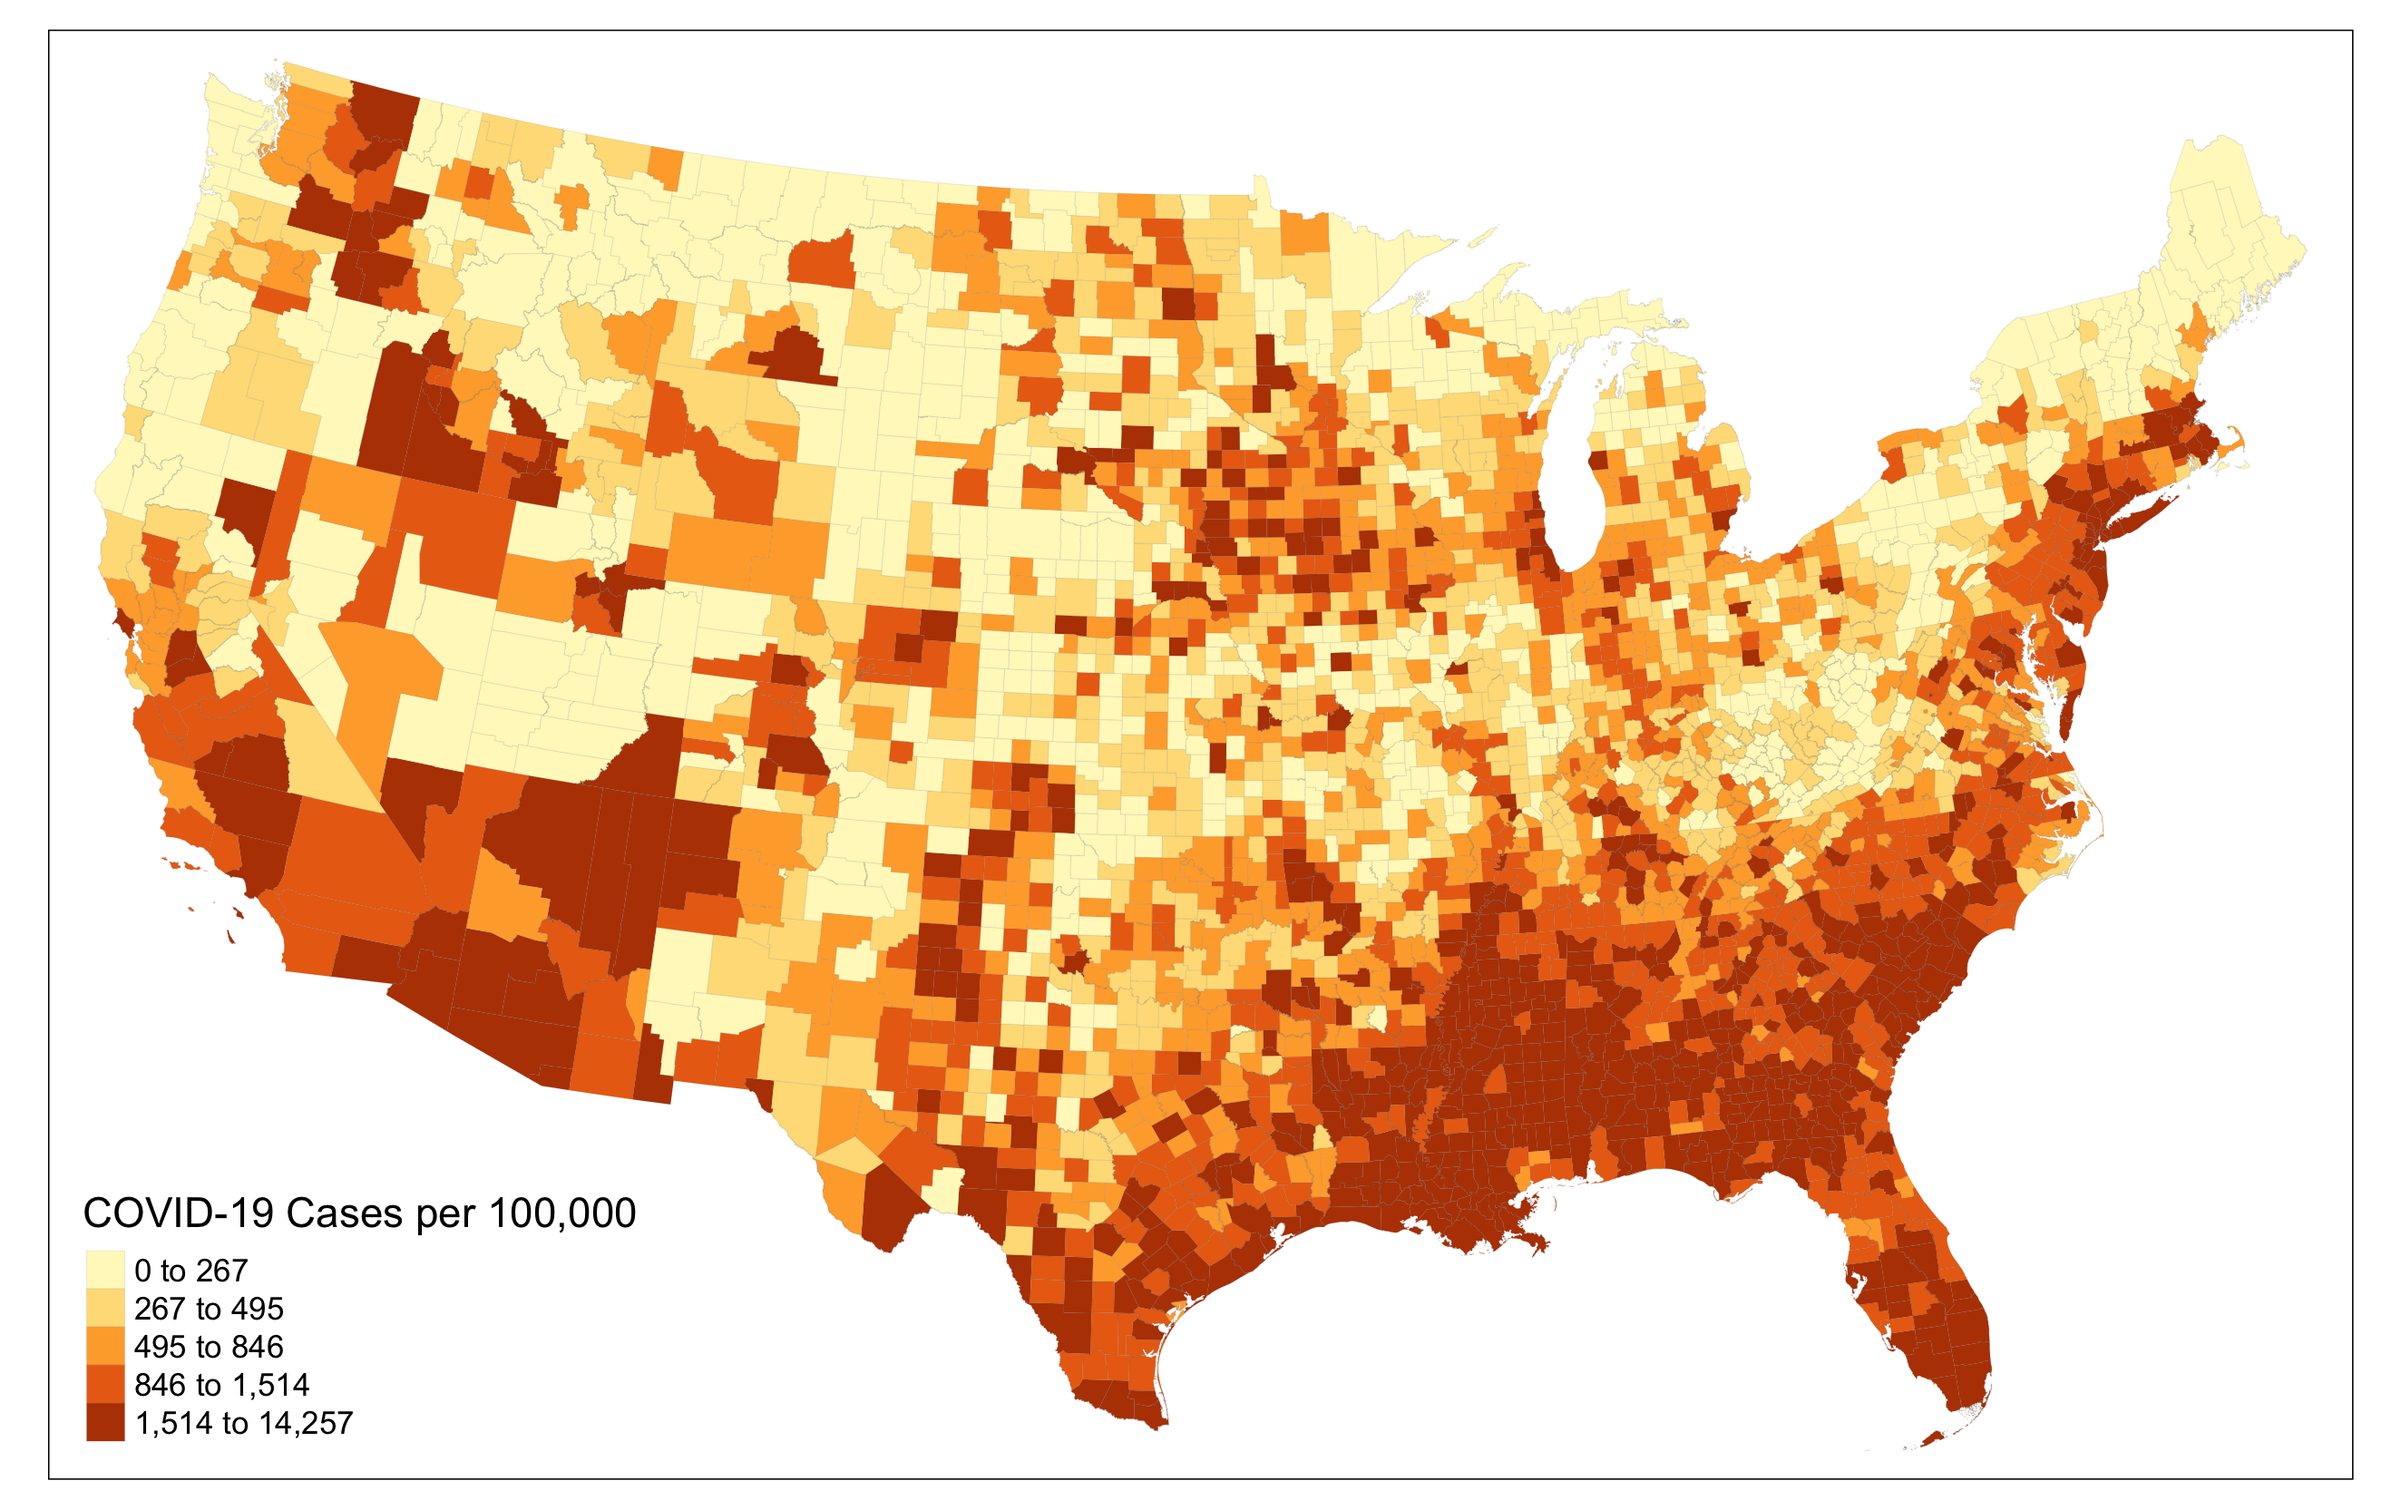
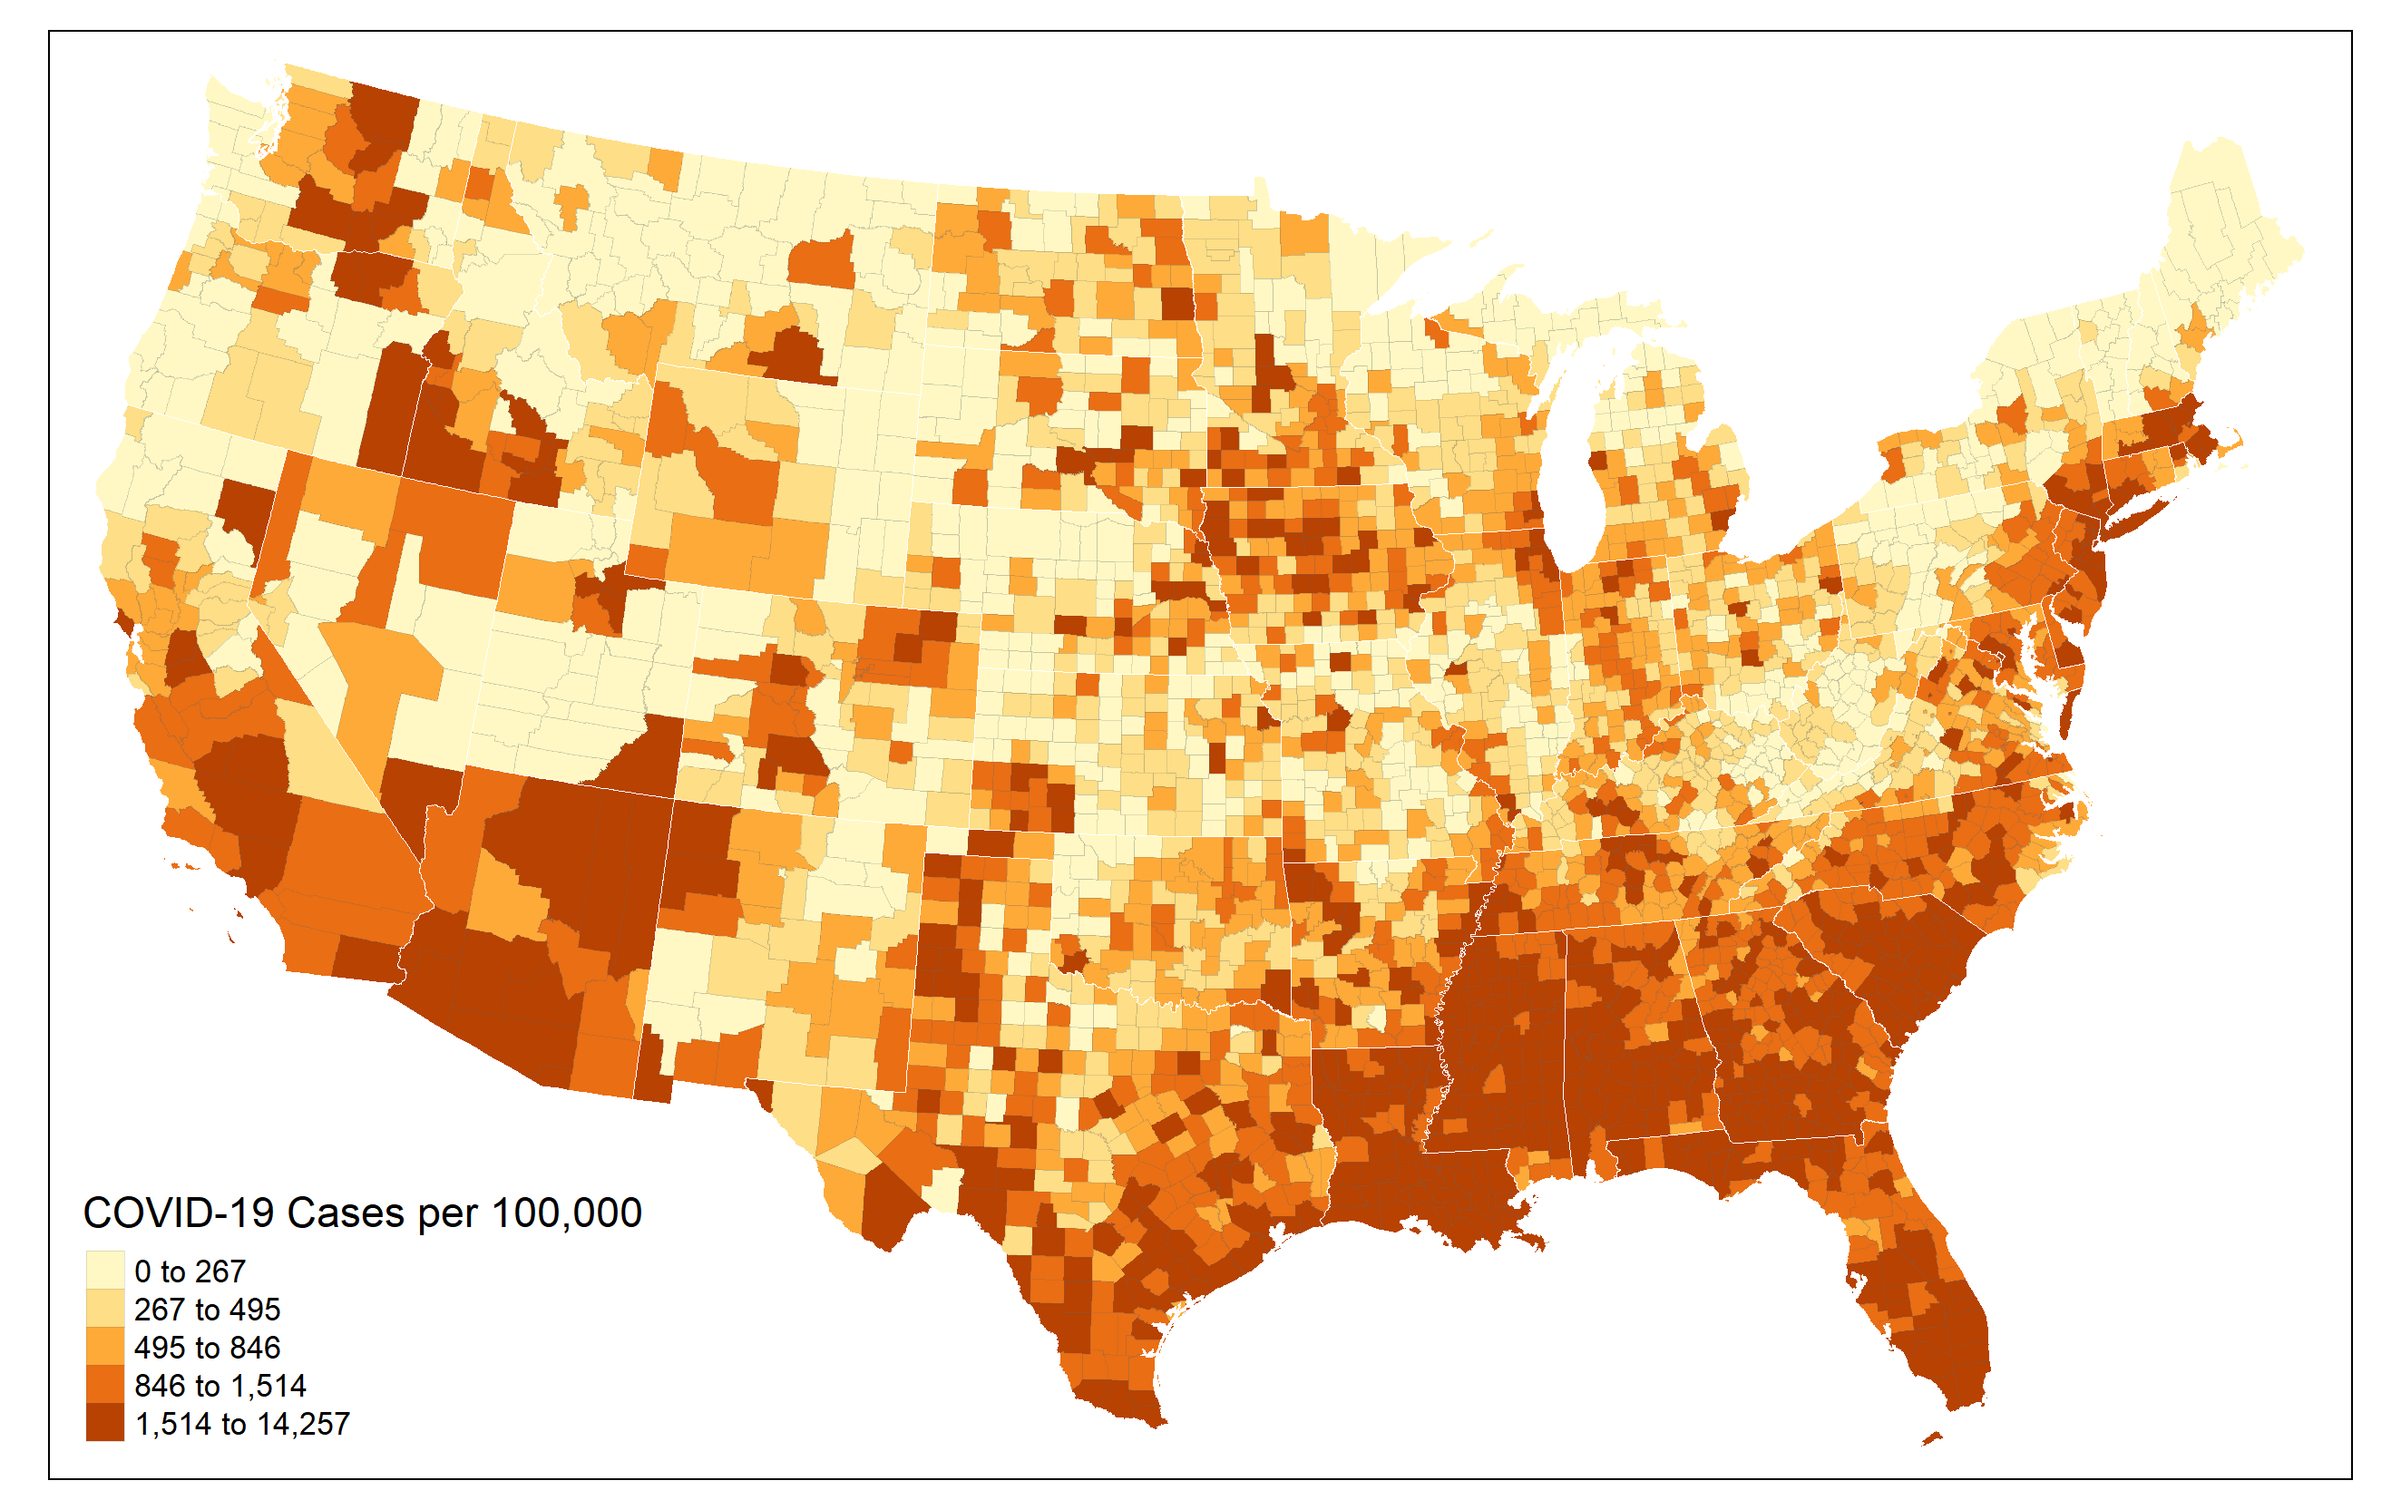
adding kulldorff notes and state boundaries

diff --git a/docs/report/report_notes.md b/docs/report/report_notes.md
@@ -18,6 +18,8 @@ SatScan reports secondary clusters as follows: "The most likely cluster will alw
 
 SMR = Standardized Mortality Ratio = ODE (ordinary differential equation)
 
+note: while spatialEpi uses 0.5 significance threshold, satscan appears to use 0.1. 
+
 Should we have used county-level local relative risk or cluster-level cluster relative risk? This probably indicates that we should use county-level local relative risk: "estimate relative risk (RR) for COVID-19 incidence rates at the county level"
 
 There are definitely differences in Kulldorf spatial scan statistic between SatScan and SpatialEpi. What are they?
